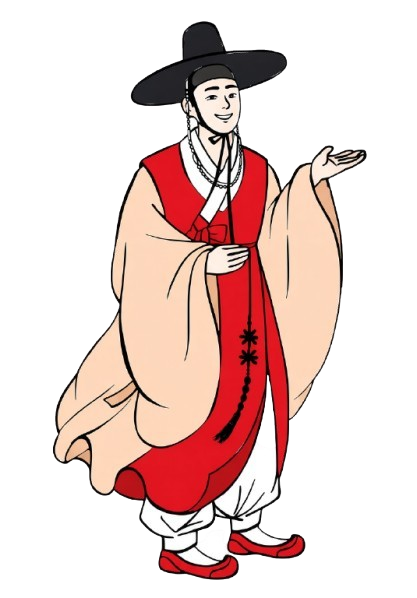
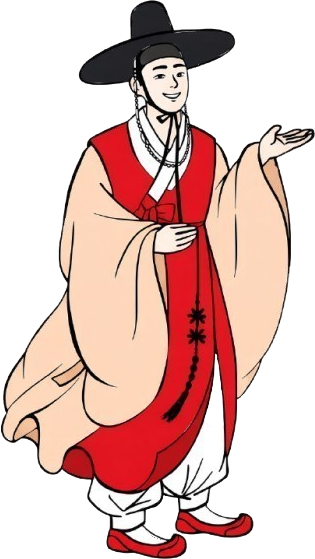
Add files via upload

diff --git a/index.html b/index.html
@@ -191,24 +191,19 @@
     0%, 100%{ transform:scale(1); }
     50%{ transform:scale(1.12); }
   }
-  .hm-my-location{ position:relative; width:56px; height:70px; transform-origin:50% 100%; transition:transform .2s ease-out; }
+  .hm-my-location{ position:relative; width:56px; height:98px; transform-origin:50% 100%; transition:transform .2s ease-out; }
   .hm-my-location .hm-ring{
-    position:absolute; top:24px; left:10px; width:36px; height:36px; border-radius:50%;
+    position:absolute; top:52px; left:10px; width:36px; height:36px; border-radius:50%;
     background:rgba(255,90,31,.45); animation:hm-pulse-ring 1.6s ease-out infinite; z-index:1;
   }
   .hm-my-location .hm-figure{
-    position:absolute; top:0; left:8px; width:40px; height:40px;
-    display:flex; align-items:center; justify-content:center; z-index:2;
+    position:absolute; top:0; left:6px; width:44px; height:78px;
+    display:flex; align-items:flex-end; justify-content:center; z-index:2;
     filter: drop-shadow(0 2px 3px rgba(0,0,0,.6));
-    --run-speed: 0.9s;
   }
-  .hm-my-location .hm-figure svg{ width:40px; height:40px; position:absolute; top:0; left:0; }
-  @keyframes hm-frame-a{ 0%,49.9%{opacity:1;} 50%,100%{opacity:0;} }
-  @keyframes hm-frame-b{ 0%,49.9%{opacity:0;} 50%,100%{opacity:1;} }
-  .hm-my-location .hm-frame-a{ animation: hm-frame-a var(--run-speed,0.9s) steps(1) infinite; }
-  .hm-my-location .hm-frame-b{ animation: hm-frame-b var(--run-speed,0.9s) steps(1) infinite; }
+  .hm-my-location .hm-figure img{ width:44px; height:78px; display:block; }
   .hm-my-location .hm-label{
-    position:absolute; top:44px; left:0; width:56px; text-align:center; z-index:3;
+    position:absolute; top:72px; left:0; width:56px; text-align:center; z-index:3;
     font-size:11px; font-weight:800; color:#fff;
     text-shadow: -1px -1px 0 #ff5a1f, 1px -1px 0 #ff5a1f, -1px 1px 0 #ff5a1f, 1px 1px 0 #ff5a1f, 0 0 4px rgba(0,0,0,.5);
     white-space:nowrap;
@@ -510,26 +505,6 @@ function initMap(){
   let myLocationWatchId = null;
   let myLocPrev = null; // {lat, lon, t}
 
-  // 달리는 자세 하나만 정확하게 그리고, 반대쪽 자세는 좌표를 다시 계산하지 않고
-  // SVG 전체를 좌우로 뒤집는(mirror) 방식으로 만들어서 모양이 절대 깨지지 않게 함
-  function buildPersonSvg(mirrored){
-    const poseGroup = `
-      <!-- 전통 갓: 머리에 겹쳐서 얹힌 넓고 두꺼운 챙(원이 아니라 확실한 납작한 챙 모양) -->
-      <ellipse cx="12" cy="2.7" rx="5" ry="1.4" fill="#1a1a1a" stroke="white" stroke-width="0.6"/>
-      <circle cx="12" cy="4.3" r="2.1" fill="#ff5a1f" stroke="white" stroke-width="1"/>
-      <path d="M12 6.3 11 10 13 13.5 11.5 17 8 19.5" stroke="white" stroke-width="4.6"/>
-      <path d="M12 6.3 11 10 13 13.5 11.5 17 8 19.5"/>
-      <path d="M13 13.5 16.5 14 18.5 11" stroke="white" stroke-width="4.6"/>
-      <path d="M13 13.5 16.5 14 18.5 11"/>
-      <path d="M11 10 7 8.5" stroke="white" stroke-width="4.6"/>
-      <path d="M11 10 7 8.5"/>
-      <path d="M11.5 17 15 21" stroke="white" stroke-width="4.6"/>
-      <path d="M11.5 17 15 21"/>
-    `;
-    const transform = mirrored ? ' transform="translate(24,0) scale(-1,1)"' : '';
-    return `<svg viewBox="0 -1 24 25" fill="none" stroke="#ff5a1f" stroke-width="2.6" stroke-linecap="round" stroke-linejoin="round"><g${transform}>${poseGroup}</g></svg>`;
-  }
-
   function haversineMetersLoc(lat1, lon1, lat2, lon2){
     const R = 6371000, toRad = v => v*Math.PI/180;
     const dLat = toRad(lat2-lat1), dLon = toRad(lon2-lon1);
@@ -560,24 +535,17 @@ function initMap(){
     if(speedMps === null) speedMps = 0;
     myLocPrev = {lat, lon, t: now};
 
-    const duration = speedToDuration(speedMps);
-
     const isFirstFix = !myLocationMarker;
     if(!myLocationMarker){
       const html = '<div class="hm-my-location"><div class="hm-ring"></div>' +
-        '<div class="hm-figure"><span class="hm-frame-a">' + buildPersonSvg(false) + '</span><span class="hm-frame-b">' + buildPersonSvg(true) + '</span></div>' +
+        '<div class="hm-figure"><img src="my-location-icon.png?v=4" alt="내 위치"></div>' +
         '<div class="hm-label">내 위치</div></div>';
-      const myLocIcon = L.divIcon({ html, className:'', iconSize:[56,70], iconAnchor:[28,44] });
+      const myLocIcon = L.divIcon({ html, className:'', iconSize:[56,98], iconAnchor:[28,72] });
       myLocationMarker = L.marker([lat, lon], {icon: myLocIcon, interactive:false, zIndexOffset:2000}).addTo(map);
       // 처음 위치를 찾았을 때만 지도를 그쪽으로 이동(그 뒤로는 사용자가 보던 화면을 강제로 옮기지 않음)
       if(map.getZoom() < 13) map.setView([lat, lon], 15);
     } else {
       myLocationMarker.setLatLng([lat, lon]);
-    }
-    const el = myLocationMarker.getElement();
-    if(el){
-      const fig = el.querySelector('.hm-figure');
-      if(fig) fig.style.setProperty('--run-speed', duration + 's');
     }
     updateMyLocationScale();
   }
